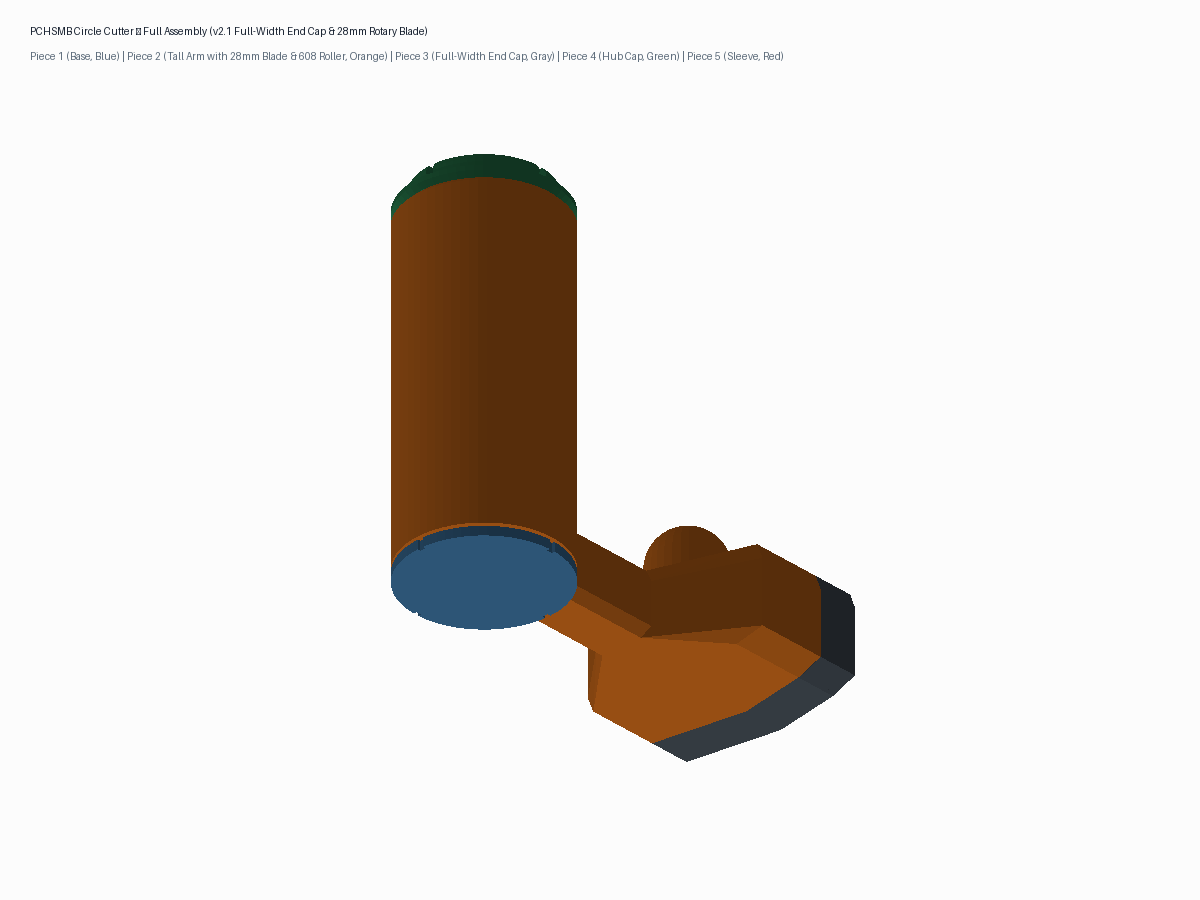
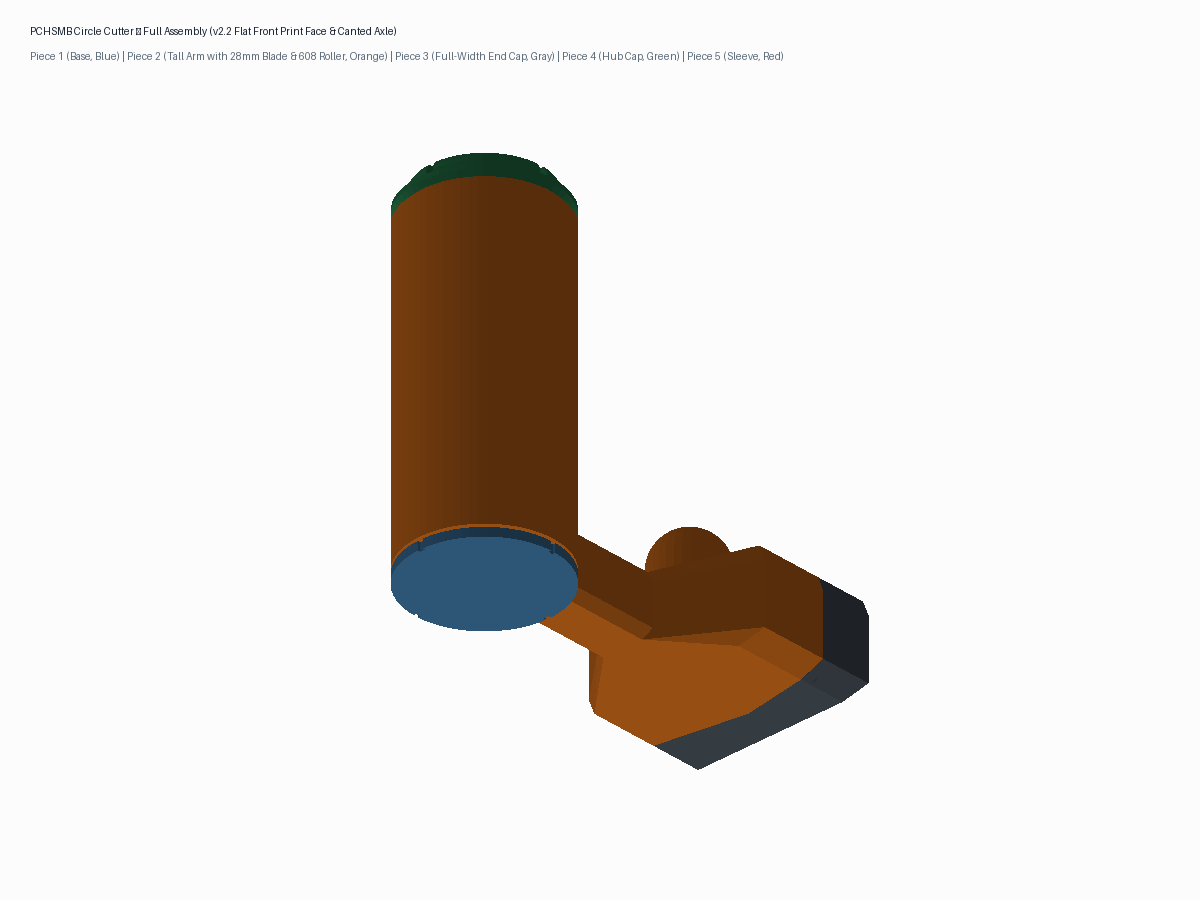
fix(circle-cutter): flatten Piece 3 front face for printability and align shoulder screw post to 9.06 deg blade cant angle

diff --git a/PCHSMB/Circle Cutter/generate_circle_cutter.py b/PCHSMB/Circle Cutter/generate_circle_cutter.py
@@ -33,7 +33,7 @@ from typing import Dict, List, Sequence, Tuple
 # PARAMETRIC SPECIFICATIONS (MILLIMETERS)
 # =============================================================================
 
-VERSION = "2.1"
+VERSION = "2.2"
 DESIGN_NAME = "PCHSMB Circle Cutter - Semicircular Wind Relief Slit Tool with Full-Width End Cap & 28mm Rotary Blade"
 
 # -----------------------------------------------------------------------------
@@ -156,15 +156,17 @@ PUSH_POST_SHOULDER_Z = 34.0                    # 34.0 mm local Z (6.0 mm vertica
 PUSH_POST_DOME_RADIUS = 12.0                   # 12.0 mm spherical dome radius (seamless C1 tangency)
 PUSH_POST_APEX_Z = PUSH_POST_SHOULDER_Z + PUSH_POST_DOME_RADIUS  # 46.0 mm local Z (+18.0 mm above head ceiling)
 
-# Piece 3: Full-Width End Cap with Bearing Clearance Canopy & Single M3 Fastener Attachment
+# Piece 3: Full-Width End Cap with Flat Front Print Face & Canted Axle Centerline
 GUARD_WIDTH = DUAL_HEAD_WIDTH                 # 64.0 mm full width (Y in [-32, +32])
 GUARD_HEIGHT = DUAL_HEAD_HEIGHT               # 28.0 mm full height (Z in [0, 28]: 4.0mm air clearance above vinyl)
-GUARD_DEPTH = 13.7                            # 13.7 mm axial depth from arm chevron face
+GUARD_FRONT_FLAT_X = 115.50                   # 115.50 mm flat front print surface (allows 100% flat face-down bed adhesion)
+GUARD_DEPTH = round(GUARD_FRONT_FLAT_X - DISTAL_X, 4)  # 15.1678 mm depth at Y=+-16.0mm distal axle planes
 GUARD_CB_DIA = 7.8                            # 7.8 mm counterbore for 7.0mm shoulder bolt head
-GUARD_CB_DEPTH = 3.0                          # 3.0 mm counterbore depth
+GUARD_CB_SEAT_S = BLADE_STANDOFF_LEN + SHOULDER_BOLT_LEN  # 11.50 mm along canted axle ray (1.5mm arm boss + 10.0mm bolt shoulder)
+GUARD_HUB_TIP_S = 2.30                        # 2.30 mm along canted axle ray (leaves 0.80mm exposed shoulder for 0.35mm blade -> 0.45mm float)
+GUARD_CAV_FLOOR_S = 3.50                      # 3.50 mm along canted axle ray (1.65mm blade clearance, 1.20mm hub boss, 8.0mm solid core)
 GUARD_BORE_DIA = 4.2                          # 4.2 mm through-bore for 4.0mm shoulder bolt
 GUARD_HUB_OD = 9.0                            # 9.0 mm OD central clamping hub
-GUARD_HUB_PROTRUSION = 1.5                    # 1.5 mm distance from rear face (meets arm standoff boss)
 BLADE_CAV_RY = 15.0                           # 15.0 mm radius in Y (true circle, clears 14.0mm blade by 1.0mm)
 BLADE_CAV_RZ = 15.0                           # 15.0 mm radius in Z (true circle, centered at axle Z=9.5)
 BLADE_CAV_CZ = BLADE_AXLE_LOCAL_Z             # 9.5 mm center in Z (strictly concentric with blade axle)
@@ -804,7 +806,7 @@ def build_piece2_arm(r_hub_outer: float = HUB_OUTER_RADIUS, r_bore: float = HUB_
 
 
 def build_piece3_blade_cap() -> Mesh:
-    """Build Piece 3: Full-Width Unibody End Cap with Bearing Clearance Canopy & Single M3 Fastener Attachment."""
+    """Build Piece 3: Full-Width Unibody End Cap with Flat Front Print Surface & Canted Axle Centerline."""
     m = Mesh("circle_cutter_blade_cap")
 
     blade_y = BLADE_PAD_Y
@@ -821,7 +823,12 @@ def build_piece3_blade_cap() -> Mesh:
     head_w = DUAL_HEAD_WIDTH
     head_h = DUAL_HEAD_HEIGHT
     bevel = ARM_BEVEL
-    cap_len = GUARD_DEPTH
+
+    # 100% Flat Front Print Surface across entire face:
+    # Set uniform X = 115.50 mm across all Y in [-32, +32], Z in [0, 28].
+    # Allows printing face-down directly on build plate with zero supports,
+    # ensuring vertical orientation of holes for maximum precision and tolerance.
+    x_front_flat = GUARD_FRONT_FLAT_X
 
     nb = (cos_c, sin_c, 0.0)
     tb = (-sin_c, cos_c, 0.0)
@@ -833,12 +840,6 @@ def build_piece3_blade_cap() -> Mesh:
             return distal_x - (y - blade_y) * tan_c
         else:
             return distal_x + (y - bearing_y) * tan_c
-
-    def x_front(y: float) -> float:
-        if y >= 0.0:
-            return x_rear(y) + cap_len * nb[0]
-        else:
-            return x_rear(y) + cap_len * nr[0]
 
     # Outer profile loop (from z_min = 0.0 to z_max = 28.0)
     loop_dual = make_beveled_rect_loop(-head_w / 2.0, head_w / 2.0, 0.0, head_h, bevel, 8)
@@ -856,30 +857,35 @@ def build_piece3_blade_cap() -> Mesh:
 
     # 1. Outer perimeter longitudinal walls
     bnd_outer_rear = [(x_rear(p[0]), p[0], p[1]) for p in loop_dual]
-    bnd_outer_front = [(x_front(p[0]), p[0], p[1]) for p in loop_dual]
+    bnd_outer_front = [(x_front_flat, p[0], p[1]) for p in loop_dual]
     for i in range(len(loop_dual)):
         j = (i + 1) % len(loop_dual)
         m.quad(bnd_outer_rear[i], bnd_outer_rear[j], bnd_outer_front[j], bnd_outer_front[i])
 
-    blade_front_3d = [(x_front(p[0]), p[0], p[1]) for p in bnd_blade_2d]
+    blade_front_3d = [(x_front_flat, p[0], p[1]) for p in bnd_blade_2d]
     blade_rear_3d = [(x_rear(p[0]), p[0], p[1]) for p in bnd_blade_2d]
-    bearing_front_3d = [(x_front(p[0]), p[0], p[1]) for p in bnd_bearing_2d]
+    bearing_front_3d = [(x_front_flat, p[0], p[1]) for p in bnd_bearing_2d]
     bearing_rear_3d = [(x_rear(p[0]), p[0], p[1]) for p in bnd_bearing_2d]
 
     # -------------------------------------------------------------------------
-    # BLADE SIDE (Y >= 0)
+    # BLADE SIDE (Y >= 0): True Canted Axle Centerline at +9.0607°
     # -------------------------------------------------------------------------
-    c_b_rear = (x_rear(blade_y), blade_y, blade_axle_z)
-    c_b_front = (x_front(blade_y), blade_y, blade_axle_z)
+    # Centerline: C(s) = P0 + s * nb where P0 is on the distal axle plane (X=distal_x, Y=blade_y, Z=blade_axle_z)
+    p0_b = (distal_x, blade_y, blade_axle_z)
 
-    r_cb = GUARD_CB_DIA / 2.0
-    r_bore = GUARD_BORE_DIA / 2.0
-    r_hub = GUARD_HUB_OD / 2.0
-    blade_cav_r = BLADE_CAV_RY
+    def c_b(s: float) -> Vec3:
+        return (p0_b[0] + s * nb[0], p0_b[1] + s * nb[1], p0_b[2])
+
+    r_cb = GUARD_CB_DIA / 2.0         # 3.9 mm (7.8mm counterbore)
+    r_bore = GUARD_BORE_DIA / 2.0     # 2.1 mm (4.2mm through-bore)
+    r_hub = GUARD_HUB_OD / 2.0        # 4.5 mm (9.0mm OD hub post)
+    blade_cav_r = BLADE_CAV_RY        # 15.0 mm (true circular cavity)
     z_floor = 0.05
 
-    cb_depth = GUARD_CB_DEPTH
-    hub_protrusion = GUARD_HUB_PROTRUSION
+    # Centerline parameters along canted vector nb:
+    s_hub_tip = GUARD_HUB_TIP_S       # 2.30 mm (0.80mm exposed shoulder for 0.35mm blade = 0.45mm running float)
+    s_cav_floor = GUARD_CAV_FLOOR_S   # 9.50 mm (hub post height = 7.20mm, solid 2.0mm bulkhead to cb seat)
+    s_cb_seat = GUARD_CB_SEAT_S       # 11.50 mm (1.5mm arm boss + 10.0mm shoulder bolt length)
 
     blade_cb_front = []
     blade_cb_seat = []
@@ -890,11 +896,17 @@ def build_piece3_blade_cap() -> Mesh:
     blade_cav_floor = []
     blade_cav_rim = []
 
+    c_b_cb_seat = c_b(s_cb_seat)
+    c_b_hub_tip = c_b(s_hub_tip)
+    c_b_cav_floor = c_b(s_cav_floor)
+    c_b_rear = c_b(0.0)
+
     for p in bnd_blade_2d:
         ang = math.atan2(p[1] - blade_axle_z, p[0] - blade_y)
         ca = math.cos(ang)
         sa = math.sin(ang)
 
+        # Transverse displacement vectors in the pad plane normal to nb:
         vp_cb = (r_cb * ca * tb[0], r_cb * ca * tb[1], r_cb * sa)
         vp_bore = (r_bore * ca * tb[0], r_bore * ca * tb[1], r_bore * sa)
         vp_hub = (r_hub * ca * tb[0], r_hub * ca * tb[1], r_hub * sa)
@@ -906,39 +918,40 @@ def build_piece3_blade_cap() -> Mesh:
         dz_cav = z_abs - blade_axle_z
         vp_cav = (dy_cav * tb[0], dy_cav * tb[1], dz_cav)
 
-        pt_cb_f = (c_b_front[0] + vp_cb[0], c_b_front[1] + vp_cb[1], c_b_front[2] + vp_cb[2])
+        # Counterbore front opening on the flat plane X = x_front_flat:
+        # Ray along nb reaches x_front_flat at parameter s:
+        # X = p0_b[0] + s * cos_c - r_cb * ca * sin_c = x_front_flat
+        s_cb_f = (x_front_flat - p0_b[0] + r_cb * ca * sin_c) / cos_c
+        pt_cb_f = (x_front_flat,
+                   p0_b[1] + s_cb_f * sin_c + r_cb * ca * cos_c,
+                   p0_b[2] + r_cb * sa)
         blade_cb_front.append(pt_cb_f)
 
-        pt_cb_s = (c_b_front[0] - cb_depth * nb[0] + vp_cb[0],
-                   c_b_front[1] - cb_depth * nb[1] + vp_cb[1],
-                   c_b_front[2] + vp_cb[2])
+        # Counterbore seat (shelf at s_cb_seat)
+        pt_cb_s = (c_b_cb_seat[0] + vp_cb[0], c_b_cb_seat[1] + vp_cb[1], c_b_cb_seat[2] + vp_cb[2])
         blade_cb_seat.append(pt_cb_s)
 
-        pt_b_s = (c_b_front[0] - cb_depth * nb[0] + vp_bore[0],
-                  c_b_front[1] - cb_depth * nb[1] + vp_bore[1],
-                  c_b_front[2] + vp_bore[2])
+        # Through-bore seat (ID 4.2mm at s_cb_seat)
+        pt_b_s = (c_b_cb_seat[0] + vp_bore[0], c_b_cb_seat[1] + vp_bore[1], c_b_cb_seat[2] + vp_bore[2])
         blade_bore_seat.append(pt_b_s)
 
-        pt_b_t = (c_b_rear[0] + hub_protrusion * nb[0] + vp_bore[0],
-                  c_b_rear[1] + hub_protrusion * nb[1] + vp_bore[1],
-                  c_b_rear[2] + vp_bore[2])
+        # Through-bore tip (ID 4.2mm at s_hub_tip)
+        pt_b_t = (c_b_hub_tip[0] + vp_bore[0], c_b_hub_tip[1] + vp_bore[1], c_b_hub_tip[2] + vp_bore[2])
         blade_bore_tip.append(pt_b_t)
 
-        pt_h_t = (c_b_rear[0] + hub_protrusion * nb[0] + vp_hub[0],
-                  c_b_rear[1] + hub_protrusion * nb[1] + vp_hub[1],
-                  c_b_rear[2] + vp_hub[2])
+        # Hub post tip (OD 9.0mm at s_hub_tip)
+        pt_h_t = (c_b_hub_tip[0] + vp_hub[0], c_b_hub_tip[1] + vp_hub[1], c_b_hub_tip[2] + vp_hub[2])
         blade_hub_tip.append(pt_h_t)
 
-        pt_h_b = (c_b_front[0] - cb_depth * nb[0] + vp_hub[0],
-                  c_b_front[1] - cb_depth * nb[1] + vp_hub[1],
-                  c_b_front[2] + vp_hub[2])
+        # Hub post base (OD 9.0mm at s_cav_floor)
+        pt_h_b = (c_b_cav_floor[0] + vp_hub[0], c_b_cav_floor[1] + vp_hub[1], c_b_cav_floor[2] + vp_hub[2])
         blade_hub_base.append(pt_h_b)
 
-        pt_c_f = (c_b_front[0] - cb_depth * nb[0] + vp_cav[0],
-                  c_b_front[1] - cb_depth * nb[1] + vp_cav[1],
-                  c_b_front[2] + vp_cav[2])
+        # Blade relief cavity floor (R 15.0mm at s_cav_floor)
+        pt_c_f = (c_b_cav_floor[0] + vp_cav[0], c_b_cav_floor[1] + vp_cav[1], c_b_cav_floor[2] + vp_cav[2])
         blade_cav_floor.append(pt_c_f)
 
+        # Blade relief cavity rim on rear chevron face (s = 0.0)
         pt_c_r = (c_b_rear[0] + vp_cav[0], c_b_rear[1] + vp_cav[1], c_b_rear[2] + vp_cav[2])
         blade_cav_rim.append(pt_c_r)
 
@@ -955,12 +968,12 @@ def build_piece3_blade_cap() -> Mesh:
         m.quad(blade_cav_rim[i], blade_cav_rim[j], blade_rear_3d[j], blade_rear_3d[i])
 
     # -------------------------------------------------------------------------
-    # BEARING SIDE (Y <= 0)
+    # BEARING SIDE (Y <= 0): Arched Clearance Canopy & Flat Front Face
     # -------------------------------------------------------------------------
     c_r_rear = (x_rear(bearing_y), bearing_y, bearing_axle_z)
-    c_r_front = (x_front(bearing_y), bearing_y, bearing_axle_z)
+    c_r_front = (x_front_flat, bearing_y, bearing_axle_z)
 
-    # Front Face of Bearing Side: Solid face closed to front center
+    # Front Face of Bearing Side: Solid planar face closed to front center at x_front_flat
     for i in range(n_p):
         j = (i + 1) % n_p
         m.add(c_r_front, bearing_front_3d[i], bearing_front_3d[j])
@@ -1861,7 +1874,7 @@ def render_assembly_views(out_dir: Path, base: Mesh, arm: Mesh, blade_cap: Mesh,
         scene_assembly.append((sleeve_to_verts(sleeve, (DISTAL_X, BEARING_PAD_Y, BEARING_AXLE_WORLD_Z)), col_sleeve))
 
     render_scene(scene_assembly, out_dir / "circle_cutter_assembly.png",
-                 "PCHSMB Circle Cutter — Full Assembly (v2.1 Full-Width End Cap & 28mm Rotary Blade)",
+                 f"PCHSMB Circle Cutter — Full Assembly (v{VERSION} Flat Front Print Face & Canted Axle)",
                  "Piece 1 (Base, Blue) | Piece 2 (Tall Arm with 28mm Blade & 608 Roller, Orange) | Piece 3 (Full-Width End Cap, Gray) | Piece 4 (Hub Cap, Green) | Piece 5 (Sleeve, Red)")
 
     # Exploded Scene
@@ -1875,7 +1888,7 @@ def render_assembly_views(out_dir: Path, base: Mesh, arm: Mesh, blade_cap: Mesh,
         scene_exploded.append((sleeve_to_verts(sleeve, (DISTAL_X + 35.0, BEARING_PAD_Y, BEARING_AXLE_WORLD_Z + 41.0)), col_sleeve))
 
     render_scene(scene_exploded, out_dir / "circle_cutter_exploded.png",
-                 "PCHSMB Circle Cutter — Exploded Alignment View (v2.1)",
+                 f"PCHSMB Circle Cutter — Exploded Alignment View (v{VERSION})",
                  "Vertical Stackup: Base (Z=0) -> Arm with Chevron Dual Head (+45mm) -> Hub Cap (+150mm) | Distal Full-Width End Cap & Sleeve (+35mm X)")
 
 
@@ -1949,17 +1962,19 @@ def generate_manifest(out_dir: Path, meshes: List[Mesh]) -> dict:
             "controlled_cut_depth_mm": CUT_DEPTH,
         },
         "safety_guard_cowl_architecture": {
-            "type": "Full-Width Unibody End Cap with Bearing Clearance Canopy & Single M3 Fastener Attachment",
+            "type": "Full-Width Unibody End Cap with Flat Front Print Face & Canted Axle Centerline",
             "width_mm": GUARD_WIDTH,
             "height_mm": GUARD_HEIGHT,
             "depth_mm": GUARD_DEPTH,
+            "front_flat_world_x_mm": GUARD_FRONT_FLAT_X,
             "ground_clearance_above_vinyl_mm": 4.0,
             "finger_safety_status": "Full unibody enclosure spanning full 64mm chevron face, enclosing blade and canopying bearing",
             "retention": "Single uxcell 4mm x 10mm M3 shoulder bolt through 28mm blade bore; 0 screws on bearing side",
-            "blade_cavity_shape": "True circular cylinder (R=15.0mm, concentric with blade axle Z=9.5mm)",
-            "bearing_canopy_shape": "True circular cylinder (R=13.0mm, concentric with bearing axle Z=7.0mm)",
+            "blade_cavity_shape": "True circular cylinder (R=15.0mm, concentric with blade axle Z=9.5mm, canted at +9.0607°)",
+            "bearing_canopy_shape": "True circular cylinder (R=13.0mm, concentric with bearing axle Z=7.0mm, canted at -9.0607°)",
             "bearing_canopy_clearance": "Generous arched clearance canopy with open bottom allowing 608 bearing to roll directly on vinyl",
-            "screw_head_recess": f"{GUARD_CB_DIA}mm counterbore x {GUARD_CB_DEPTH}mm depth",
+            "screw_head_recess": f"{GUARD_CB_DIA}mm counterbore along canted axle ray (+9.0607°); head completely recessed below flat front face",
+            "print_orientation": "100% flat front face (X=115.50mm) down on build plate; zero supports required; perfectly round vertical holes",
         },
         "bearing_specifications_608_thrust": {
             "bearing_type": "608 Ball Bearing (608ZZ / 608-2RS)",
@@ -2038,8 +2053,8 @@ def main() -> None:
     out_dir.mkdir(parents=True, exist_ok=True)
 
     print("=" * 72)
-    print("  PCHSMB Circle Cutter - Pure-Python STL Generation Pipeline v2.1")
-    print("  Feature: Full-Width Unibody End Cap, 608 Bearing Canopy & Single M3 Blade Screw Clamping")
+    print(f"  PCHSMB Circle Cutter - Pure-Python STL Generation Pipeline v{VERSION}")
+    print("  Feature: Flat Front Print Face, Canted Axle Centerline, Bearing Canopy & Single M3 Blade Screw Clamping")
     print(f"  Target: {out_dir.resolve()}")
     print("=" * 72)
 

diff --git a/PCHSMB/Circle Cutter/README.md b/PCHSMB/Circle Cutter/README.md
@@ -9,7 +9,7 @@ Parametric 3D-printable circle cutter engineered specifically for Pine Creek Hig
 The tool utilizes a concentric 5-piece modular rotating pivot architecture with harmonized 608 ball bearings and integrated thrust suspension:
 1. **Fixed Pivot Base (Piece 1):** Centered directly over the marked wind relief location. Four exterior vertical crosshair notches allow precise visual alignment against perpendicular layout lines on the vinyl. The top of the $100\text{ mm}$ center spindle features an integrated $\varnothing 11.5\text{ mm} \times 1.0\text{ mm}$ inner-race shoulder and $\varnothing 7.9\text{ mm} \times 6.0\text{ mm}$ center pilot post that securely captures the inner race of a standard 608 ball bearing.
 2. **Rotating Arm Assembly (Piece 2):** Sleeves smoothly over the base spindle with a slip fit ($1.0\text{ mm}$ radial clearance). Features an open through-bore and internal annular retention groove ($Z = 103.5–105.5\text{ mm}$), enabling **100% support-free upright printing** with the arm resting flat on the build plate. The arm is suspended at world $Z = 4.0\text{ mm}$, maintaining a **$1.0\text{ mm}$ uniform air gap** above the base plate shoulder, reducing plastic sliding contact area from $707\text{ mm}^2$ to **$0\text{ mm}^2$**. The arm extension is calibrated to the official **$R = 101.6\text{ mm}$ ($4.0\text{ in.}$)** semicircular wind relief fleet specification ($8.0\text{ in.}$ chord). The beam features a tall **$20.0\text{ mm}$ vertical cross-section** ($4.63\times$ higher bending stiffness than 12mm) terminating in an expanded $64.0\text{ mm}\text{ W} \times 28.0\text{ mm}\text{ H}$ **Canted Symmetric Chevron Dual Head** that fully encloses and backs the 28mm blade and Piece 3 unibody end cap. The dual head features widened pad spacing at $Y = \pm 16.0\text{ mm}$ ($32.0\text{ mm}$ center-to-center), providing a generous **$7.00\text{ mm}$ circumferential clearance** between the 28mm rotary blade and 608 roller bearing. Both mounting faces are canted at $\pm 9.0607^\circ$ ($\arcsin(16.0 / 101.6)$): the Blade Pad ($Y = +16.0\text{ mm}$) is angled at $+9.06^\circ$ to slice exactly perpendicular to its radius vector ($0.00^\circ$ yaw), while the Bearing Pad ($Y = -16.0\text{ mm}$) is angled at $-9.06^\circ$ to orient the M5 axle radially toward the pivot center for pure tangential rolling with zero tire scrub. The faces meet seamlessly at centerline $Y = 0.0\text{ mm}$ with a forward-swept chevron vertex at $X = 102.88\text{ mm}$. The head houses a standard 608 roller bearing depth stop (M5 axle centered at $Z_{\text{local}} = 7.0\text{ mm}$) alongside a 28mm rotary blade mounting boss ($\varnothing 9.0\text{ mm} \times 1.5\text{ mm}$ standoff, M3 heat-set insert at $Z_{\text{local}} = 9.5\text{ mm}$, providing $14.0\text{ mm}$ of solid PETG ceiling above the boss). Integrated directly atop the head is an **Ergonomic Cylindrical Domed Push Knob** ($\varnothing 24.0\text{ mm}$ cylinder centered at $X = 80.0\text{ mm}$, straight walls to $Z = 34.0\text{ mm}$, crowned with a hemispherical dome rising to $Z_{\text{apex}} = 46.0\text{ mm}$, $+18.0\text{ mm}$ above head ceiling) featuring seamless $C^1$ tangent continuity.
-3. **Full-Width Unibody End Cap & Clamp (Piece 3):** A protective unibody end cap ($64.0\text{ mm}\text{ W} \times 28.0\text{ mm}\text{ H} \times 13.7\text{ mm}\text{ D}$) that spans the entire distal chevron face of the arm. Clamped to the arm solely via the single uxcell $\varnothing 4.0\text{ mm} \times 10.0\text{ mm}$ M3 shoulder bolt through the 28mm blade bore, maintaining **$0.45\text{ mm}$ of axial running float** for silky-smooth, zero-binding rotation on the ground steel shoulder without wobble or flex. The bearing side has **zero screw holes**, featuring a true circular arched overhead canopy ($9.2\text{ mm}$ depth, true circular radius $R = 13.0\text{ mm}$, concentric with bearing axle at $Z_{\text{local}} = 7.0\text{ mm}$) that completely covers the 608 roller bearing from above while remaining open at the bottom so the bearing rolls freely directly on the vinyl ($Z_{\text{world}} = 0.0\text{ mm}$). The blade side features a true circular relief cavity ($R = 15.0\text{ mm}$, concentric with blade axle at $Z_{\text{local}} = 9.5\text{ mm}$), completely eliminating any oval distortion. The end cap bottom is suspended $4.0\text{ mm}$ in the air above the vinyl ($Z_{\text{world}} = +4.0\text{ mm}$), preventing any plastic drag. The rear mating face matches the arm's $18.12^\circ$ included chevron angle, providing positive kinematic anti-rotation without secondary screws.
+3. **Full-Width Unibody End Cap & Clamp (Piece 3):** A protective unibody end cap ($17.72\text{ mm}\text{ L} \times 64.0\text{ mm}\text{ W} \times 28.0\text{ mm}\text{ H}$) spanning the entire distal chevron face of the arm. Features a **100% planar flat front surface** ($X = 115.50\text{ mm}$) for rock-solid, face-down build plate adhesion with **zero supports**, ensuring all cylindrical bores and counterbores print in the vertical $Z_{\text{printer}}$ axis for maximum hole roundness and tight tolerance. Clamped to the arm solely via the single uxcell $\varnothing 4.0\text{ mm} \times 10.0\text{ mm}$ M3 shoulder bolt through the 28mm blade bore, maintaining **$0.45\text{ mm}$ of axial running float** for silky-smooth, zero-binding rotation on the ground steel shoulder without wobble or flex. The shoulder screw post, through-bore ($\varnothing 4.2\text{ mm}$), and counterbore ($\varnothing 7.8\text{ mm}$) are strictly aligned along the true canted blade axle vector at **$+9.0607^\circ$**, matching the arm's standoff boss with zero kinking. The bearing side has **zero screw holes**, featuring a true circular arched overhead canopy ($12.5\text{ mm}$ depth, true circular radius $R = 13.0\text{ mm}$, concentric with bearing axle at $Z_{\text{local}} = 7.0\text{ mm}$) that completely covers the 608 roller bearing from above while remaining open at the bottom so the bearing rolls freely directly on the vinyl ($Z_{\text{world}} = 0.0\text{ mm}$). The blade side features a true circular relief cavity ($R = 15.0\text{ mm}$, concentric with blade axle at $Z_{\text{local}} = 9.5\text{ mm}$) backed by an $8.0\text{ mm}$ solid PETG core. The end cap bottom is suspended $4.0\text{ mm}$ in the air above the vinyl ($Z_{\text{world}} = +4.0\text{ mm}$), preventing any plastic drag. The rear mating face matches the arm's $18.12^\circ$ included chevron angle, providing positive kinematic anti-rotation without secondary screws.
 4. **Snap-in Hub Top Cap (Piece 4):** A separate 4-finger flex collet cap that snaps firmly into the internal retention groove at the top of the hub sleeve. Features an integrated $\varnothing 22.2\text{ mm} \times 3.0\text{ mm}$ outer-race pocket and $\varnothing 18.0\text{ mm} \times 1.5\text{ mm}$ inner relief cavity that captures the top 608 ball bearing. Transmits 100% of downward cutting hand pressure through the rolling elements of the 608 bearing directly into the base spindle, eliminating arm-on-base sliding resistance.
 5. **608-to-M5 Reducer Bushing Sleeve (Piece 5):** A precision cylindrical bushing ($\varnothing 7.72\text{ mm OD} \times \varnothing 5.20\text{ mm ID} \times 6.80\text{ mm L}$) with dual $0.4\text{ mm} \times 45^\circ$ chamfers. Adapts the $8.0\text{ mm}$ bore of the 608 depth-stop roller bearing to standard M5 button-head machine screws, allowing inner-race clamping against the arm's angled $\varnothing 11.5\text{ mm}$ standoff boss with zero radial play and zero shield contact. ($0.20\text{ mm}$ OD reduction to $7.72\text{ mm}$ validated via physical print testing).
 
@@ -39,7 +39,7 @@ The tool utilizes a concentric 5-piece modular rotating pivot architecture with 
 |---|---|---|---|
 | **Piece 1: Fixed Pivot Base**<br>[`circle_cutter_base.stl`](circle_cutter_base.stl) | $50.0 \times 50.0 \times 110.0\text{ mm}$ | PETG / 25% Gyroid (~91.9g) | • $50\text{ mm}$ OD $\times 3.0\text{ mm}$ H base plate (creates $1.0\text{ mm}$ air gap below arm!)<br>• 4 vertical crosshair notches ($1.0\text{ mm}$ D $\times 1.8\text{ mm}$ W) at $0^\circ, 90^\circ, 180^\circ, 270^\circ$<br>• $40\text{ mm}$ OD $\times 100\text{ mm}$ H center spindle<br>• $\varnothing 11.5\text{ mm} \times 1.0\text{ mm}$ inner-race shoulder<br>• $\varnothing 7.9\text{ mm} \times 6.0\text{ mm}$ center pilot post with $0.8\text{ mm} \times 45^\circ$ chamfer |
 | **Piece 2: Rotating Arm Assembly**<br>[`circle_cutter_arm.stl`](circle_cutter_arm.stl) | $127.88 \times 64.0 \times 108.0\text{ mm}$ | PETG / 30% Gyroid / 4 walls (~102.1g) | • Standardized $R = 101.6\text{ mm}$ ($4.0\text{ in.}$) cutting radius ($8.0\text{ in.}$ chord wind relief flaps)<br>• $50\text{ mm}$ OD hub sleeve with open through-bore<br>• $\varnothing 42\text{ mm}$ ID bore with internal $\varnothing 43.6\text{ mm}$ retention groove ($45^\circ$ self-supporting overhangs)<br>• **100% support-free upright printability** with arm flat on bed ($Z=0$)<br>• Suspended at world $Z=4.0\text{ mm}$ with $1.0\text{ mm}$ air gap above base plate ($0\text{ mm}^2$ sliding friction!)<br>• **Tall Rigid Arm Beam ($20.0\text{ mm}$ H) & Canted Chevron Dual Head ($64.0\text{ mm}$ W $\times 28.0\text{ mm}$ H):** $4.63\times$ higher vertical stiffness; widened axle spacing at $Y = \pm 16.0\text{ mm}$ ($32.0\text{ mm}$ center-to-center) providing $7.00\text{ mm}$ circumferential clearance between blade and roller; distal axle planes at $X = 100.33\text{ mm}$, chevron vertex at $X = 102.88\text{ mm}$ ($Y = 0\text{ mm}$); completely backs Piece 3 unibody end cap<br>• **Monolithic Cylindrical Domed Push Knob:** $\varnothing 24.0\text{ mm}$ cylinder centered at $(X=80.0\text{ mm}, Y=0.0\text{ mm})$, straight vertical walls from $Z = 28.0$ to $Z_{\text{shoulder}} = 34.0\text{ mm}$, crowned with an exact $R = 12.0\text{ mm}$ hemispherical dome with $C^1$ tangent continuity rising to $Z_{\text{apex}} = 46.0\text{ mm}$ ($+18.0\text{ mm}$ above head ceiling, $Z_{\text{world}} = 50.0\text{ mm}$); provides ergonomic downward pressure without localized pressure points<br>• **Canted Bearing Pad ($Y = -16.0\text{ mm}$, $-9.06^\circ$):** Angled $\varnothing 11.5\text{ mm} \times 1.5\text{ mm}$ standoff boss + angled $\varnothing 6.2\text{ mm} \times 11.0\text{ mm}$ M5 heat-set insert hole; aligns 608 roller bearing axle radially along $\vec{R}_{\text{bearing}} = (100.33, -16.0)\text{ mm}$ for **pure tangential rolling with zero tire scrub**<br>• **Canted Blade Pad ($Y = +16.0\text{ mm}$, $+9.06^\circ$):** $\varnothing 9.0\text{ mm} \times 1.5\text{ mm}$ standoff boss + $\varnothing 3.8\text{ mm} \times 10.5\text{ mm}$ M3 heat-set insert hole at $Z_{\text{local}} = 9.5\text{ mm}$ ($Z_{\text{world}} = 13.5\text{ mm}$, reinforced by $14.0\text{ mm}$ solid PETG ceiling); aligns 28mm rotary blade perpendicular to $\vec{R}_{\text{blade}} = (100.33, +16.0)\text{ mm}$ for **exact $0.00^\circ$ blade yaw** (pure tangential rolling cut)<br>• Calibrated $0.5\text{ mm}$ cut depth into vinyl below 608 roller bearing (cleanly slices $0.38\text{ mm}$ vinyl with $0.12\text{ mm}$ mat score) |
-| **Piece 3: Full-Width Unibody End Cap**<br>[`circle_cutter_blade_cap.stl`](circle_cutter_blade_cap.stl) | $18.63 \times 64.0 \times 28.0\text{ mm}$ | PETG / 100% Solid (~35.8g) | • Full-width unibody end cap ($64.0\text{ mm}\text{ W} \times 28.0\text{ mm}\text{ H}$) spanning entire distal chevron face of the arm<br>• Single-screw retention: clamped solely via single uxcell $\varnothing 4.0\text{ mm} \times 10.0\text{ mm}$ M3 shoulder screw through 28mm blade bore into arm's M3 heat-set insert<br>• 28mm blade enclosure: true circular cylinder cavity ($R = 15.0\text{ mm}$, $R_y = R_z = 15.0\text{ mm}$) concentric with blade axle at $Z_{\text{local}} = 9.5\text{ mm}$ with central clamping hub ($\varnothing 9.0\text{ mm}$) providing **$0.45\text{ mm}$ axial running float** for silky-smooth blade rotation<br>• 608 bearing canopy: generous true circular arched overhead canopy ($9.2\text{ mm}$ depth, $R = 13.0\text{ mm}$, $R_y = R_z = 13.0\text{ mm}$) strictly concentric with bearing axle at $Z_{\text{local}} = 7.0\text{ mm}$ with **zero screws on bearing side**; open bottom allows bearing to roll directly on vinyl at $Z_{\text{world}} = 0.0\text{ mm}$<br>• Bottom of cap elevated at $Z_{\text{local}} = 0.0\text{ mm}$ ($Z_{\text{world}} = +4.0\text{ mm}$), guaranteeing **$4.0\text{ mm}$ air clearance above vinyl** so plastic never rubs or drags on vinyl<br>• $\varnothing 7.8\text{ mm} \times 3.0\text{ mm}$ counterbore for 7.0mm shoulder bolt head + $\varnothing 4.2\text{ mm}$ through-bore for 4.0mm shoulder bolt |
+| **Piece 3: Full-Width Unibody End Cap**<br>[`circle_cutter_blade_cap.stl`](circle_cutter_blade_cap.stl) | $17.72 \times 64.0 \times 28.0\text{ mm}$ | PETG / 100% Solid (~40.2g) | • Full-width unibody end cap ($64.0\text{ mm}\text{ W} \times 28.0\text{ mm}\text{ H} \times 17.72\text{ mm}\text{ D}$) spanning entire distal chevron face of the arm<br>• **100% Flat Front Print Face ($X = 115.50\text{ mm}$):** Enables flat face-down build plate adhesion with zero supports; all bores and counterbores print vertically for maximum circularity and tight tolerances<br>• **True Canted Axle Centerline (+9.0607°):** Shoulder screw post, bore ($\varnothing 4.2\text{ mm}$), and counterbore ($\varnothing 7.8\text{ mm}$) strictly aligned with canted blade vector $\vec{n}_b = (\cos\theta_c, \sin\theta_c, 0.0)$, matching arm blade boss with zero kink<br>• Single-screw retention: clamped solely via single uxcell $\varnothing 4.0\text{ mm} \times 10.0\text{ mm}$ M3 shoulder screw through 28mm blade bore into arm's M3 heat-set insert<br>• 28mm blade enclosure: true circular cylinder cavity ($R = 15.0\text{ mm}$, $R_y = R_z = 15.0\text{ mm}$) concentric with blade axle at $Z_{\text{local}} = 9.5\text{ mm}$ with central clamping hub ($\varnothing 9.0\text{ mm}$) providing **$0.45\text{ mm}$ axial running float** for silky-smooth blade rotation; backed by solid $8.0\text{ mm}$ core<br>• 608 bearing canopy: generous true circular arched overhead canopy ($12.5\text{ mm}$ depth, $R = 13.0\text{ mm}$, $R_y = R_z = 13.0\text{ mm}$) strictly concentric with bearing axle at $Z_{\text{local}} = 7.0\text{ mm}$ with **zero screws on bearing side**; open bottom allows bearing to roll directly on vinyl at $Z_{\text{world}} = 0.0\text{ mm}$<br>• Bottom of cap elevated at $Z_{\text{local}} = 0.0\text{ mm}$ ($Z_{\text{world}} = +4.0\text{ mm}$), guaranteeing **$4.0\text{ mm}$ air clearance above vinyl** so plastic never rubs or drags on vinyl<br>• $\varnothing 7.8\text{ mm}$ counterbore along canted axle ray with socket head recessed $0.24–1.48\text{ mm}$ below flat front face |
 | **Piece 4: Snap-in Hub Top Cap**<br>[`circle_cutter_hub_cap.stl`](circle_cutter_hub_cap.stl) | $50.0 \times 50.0 \times 9.0\text{ mm}$ | PETG / 100% Solid (~5.1g) | • $\varnothing 50\text{ mm} \times 3\text{ mm}$ top flange with $1.5\text{ mm} \times 45^\circ$ chamfer<br>• Integrated $\varnothing 22.2\text{ mm}$ outer-race pocket with $1.0\text{ mm}$ thrust face<br>• Central $\varnothing 18.0\text{ mm} \times 1.5\text{ mm}$ relief cavity (isolates inner race, shield, and post)<br>• 4 cantilever flex collet fingers with $30^\circ$ entry ramp and $45^\circ$ retention barb ($\varnothing 43.0\text{ mm}$)<br>• Tactile audible snap fit; seals bore and carries 100% downward manual pressure |
 | **Piece 5: 608-to-M5 Reducer Sleeve**<br>[`circle_cutter_reducer_sleeve.stl`](circle_cutter_reducer_sleeve.stl) | $7.72 \times 7.72 \times 6.80\text{ mm}$ | PETG / 100% Solid (~0.2g) | • Precision cylindrical bushing ($\varnothing 7.72\text{ mm OD} \times \varnothing 5.20\text{ mm ID} \times 6.80\text{ mm L}$)<br>• Outer diameter fits standard $8.0\text{ mm}$ 608 bearing bore ($0.28\text{ mm}$ diametral clearance; reduced by $0.20\text{ mm}$ from $7.92\text{ mm}$ for smooth slip fit)<br>• Inner bore slips smoothly over M5 screw ($0.20\text{ mm}$ clearance)<br>• $6.80\text{ mm}$ length is $0.20\text{ mm}$ sub-flush to $7.0\text{ mm}$ bearing inner race, ensuring M5 button head clamps inner race without pinching sleeve<br>• Dual $0.4\text{ mm} \times 45^\circ$ chamfers for snag-free bearing insertion |
 
@@ -69,7 +69,7 @@ The tool utilizes a concentric 5-piece modular rotating pivot architecture with 
 * **Print Orientations:**
   * **Piece 1 (Base):** Print standing upright on the flat $50\text{ mm}$ base plate ($Z = 0$). Zero supports required (~3 hr 30 min).
   * **Piece 2 (Arm):** Print standing upright on its bottom face ($Z = 0$) with the arm resting flat on the build plate. The open through-bore and internal $45^\circ$ groove require **zero supports and zero bridging** (~3 hr 10 min).
-  * **Piece 3 (Full-Width Unibody End Cap):** Print standing or flat. All counterbores and interior features are self-supporting. Zero supports required (~45 min).
+  * **Piece 3 (Full-Width Unibody End Cap):** **Print face-down on the flat front surface ($X = 115.50\text{ mm}$).** 100% flat bed adhesion with zero supports; all cylindrical holes and counterbores print in the vertical $Z_{\text{printer}}$ axis for maximum circularity and tight tolerances (~45 min).
   * **Piece 4 (Snap-in Hub Top Cap):** Print inverted flat on its top face ($Z = 0$) on the bed. Zero supports required (~12 min).
   * **Piece 5 (608-to-M5 Reducer Sleeve):** Print standing upright on either flat annular face ($Z = 0$). 100% solid infill, concentric wall loops. Zero supports required (~2 min).
 
@@ -247,11 +247,16 @@ PCHSMB/Circle Cutter/
 * **v2.1 — Full-Width Unibody End Cap with Bearing Canopy & Single M3 Fastener Attachment ([Plan 009](Plans/009-full-width-end-cap.md)):**
   - Widened distal axle spacing from $Y = \pm 11.5\text{ mm}$ to $Y = \pm 16.0\text{ mm}$ ($32.0\text{ mm}$ center-to-center), eliminating blade/bearing planar overlap and providing $7.00\text{ mm}$ circumferential clearance between 28mm blade and 608 roller bearing.
   - Recalibrated cant angle to $\pm 9.0607^\circ$ ($\arcsin(16.0 / 101.6)$); distal axle plane at $X = 100.3322\text{ mm}$, chevron vertex at $X = 102.8838\text{ mm}$. Head width expanded to $64.0\text{ mm}$.
-  - Redesigned Piece 3 (`circle_cutter_blade_cap.stl`) as a Full-Width Unibody End Cap ($64.0\text{ mm}\text{ W} \times 28.0\text{ mm}\text{ H} \times 13.7\text{ mm}\text{ D}$) spanning the full distal chevron face.
+  - Redesigned Piece 3 (`circle_cutter_blade_cap.stl`) as a Full-Width Unibody End Cap spanning the full distal chevron face.
   - Single-screw retention: Attaches to the arm solely via the single uxcell $\varnothing 4.0\text{ mm} \times 10.0\text{ mm}$ M3 shoulder bolt through the 28mm blade bore, maintaining $0.45\text{ mm}$ axial running float.
-  - Bearing clearance canopy: Bearing side has 0 screw holes; an arched overhead canopy ($12.5\text{ mm}$ depth, $R_y = 13.0\text{ mm}, R_z = 10.0\text{ mm}$) covers the 608 roller bearing from above with an open bottom allowing the bearing to roll freely on vinyl at $Z_{\text{world}} = 0.0\text{ mm}$.
-  - Cap bottom elevated to $Z_{\text{local}} = 0.0\text{ mm}$ ($Z_{\text{world}} = +4.0\text{ mm}$), guaranteeing $4.0\text{ mm}$ air clearance above vinyl.
-  - Mating $18.12^\circ$ included chevron $V$-face provides positive kinematic anti-rotation. All 8 STL meshes 100% watertight manifold (0 boundary, 0 non-manifold edges).
+  - Bearing clearance canopy: Bearing side has 0 screw holes; an arched overhead canopy ($12.5\text{ mm}$ depth, $R = 13.0\text{ mm}$) covers the 608 roller bearing from above with an open bottom allowing the bearing to roll freely on vinyl at $Z_{\text{world}} = 0.0\text{ mm}$.
+  - Eliminated oval cavity distortion: Established true circular cylinder cuts ($R_y = R_z = R$) concentric with blade axle ($R = 15.0\text{ mm}$) and bearing axle ($R = 13.0\text{ mm}$).
+* **v2.2 — Flat Front Print Surface & True Canted Axle Centerline for Piece 3 End Cap:**
+  - **100% Flat Front Build-Plate Surface:** Established a single uniform plane at $X = 115.50\text{ mm}$ across the entire front face ($Y \in [-32.0, +32.0\text{ mm}], Z \in [0.0, 28.0\text{ mm}]$), replacing the prior V-shaped chevron front. Enables placing the part 100% flat face-down on the print bed with zero rocking and zero build-plate supports.
+  - **Vertical Cylindrical Hole Precision:** By printing face-down on the flat front, all cylindrical features (screw counterbore, through-bore, hub post, and cavities) print as vertical circles in the printer's XY slicing plane, eliminating hole sagging/distortion and achieving perfect dimensional tolerances.
+  - **True Canted Axle Centerline (+9.0607°):** Fully aligned the shoulder screw through-bore ($\varnothing 4.2\text{ mm}$), head counterbore ($\varnothing 7.8\text{ mm}$), and internal clamping hub post ($\varnothing 9.0\text{ mm}$) with the arm's true canted blade normal vector $\vec{n}_b = (\cos\theta_c, \sin\theta_c, 0.0)$, strictly coaxial from the rear mating face to the front face and eliminating the prior straight-in ($X$-axis parallel) kink.
+  - **Recessed Screw Head & Running Float:** Screw counterbore seat is positioned at $s = 11.50\text{ mm}$ along the canted axle ray ($1.5\text{ mm}$ arm standoff boss + $10.0\text{ mm}$ shoulder bolt length). The $3.0\text{ mm}$ socket cap head is completely recessed below the flat front face ($0.24–1.48\text{ mm}$ sub-flush). Hub post tip at $s = 2.30\text{ mm}$ maintains exact $9.20\text{ mm}$ bore length, providing $0.80\text{ mm}$ exposed steel shoulder and **$0.45\text{ mm}$ axial running float** for the $0.35\text{ mm}$ Fiskars blade.
+  - **Cavity Floor & Solid Core:** Cavity floor set at $s = 3.50\text{ mm}$ along the canted axle ray ($1.65\text{ mm}$ clear air gap forward of blade), backed by a rigid $8.0\text{ mm}$ solid PETG bulkhead to the counterbore seat and bounding the cavity within $Y \le 31.36\text{ mm}$ to maintain the exact $64.00\text{ mm}$ outer width.
 
 ### Evaluated & Archived Concepts ([`IDEAS.md`](IDEAS.md))
 * **Idea 002: Ergonomic Top Swivel Knob:** Archived. A single 180° sweep by hand provides direct tactile control; an added swivel knob adds unnecessary height, mass, and mechanical play.
@@ -259,5 +264,5 @@ PCHSMB/Circle Cutter/
 * **Idea 006: Ergonomic Raised Push Plate with Directional Traction Ribs:** Superseded by Idea 007 in v1.7 per HITL user feedback.
 
 ### Active Enhancement Queue
-*(No pending enhancements currently in queue. All v2.1 engineering requirements are fully implemented and verified.)*
+*(No pending enhancements currently in queue. All v2.2 engineering requirements are fully implemented and verified.)*
 

diff --git a/PCHSMB/Circle Cutter/PHYSICAL_TEST_NOTES.md b/PCHSMB/Circle Cutter/PHYSICAL_TEST_NOTES.md
@@ -7,7 +7,7 @@ This document records physical caliper measurements, slicer parameters, print ou
 ## 1. Test Status & Configuration
 
 - **Date Initiated:** 2026-09-14 (Updated 2026-09-16)
-- **Release Version:** v2.1 (Full-Width Unibody End Cap with Bearing Clearance Canopy & Single M3 Fastener Attachment)
+- **Release Version:** v2.2 (Flat Front Print Surface & Canted Axle Centerline for Piece 3 End Cap)
 - **Target Subproject:** PCHSMB Duck Blinds & Rolling Backdrops (Wind Relief Slit Tooling)
 - **Target Geometry:** $R = 4.0\text{ in.} = 101.6\text{ mm}$ ($8.0\text{ in.}$ chord) semicircular wind relief flaps in 13oz heavy vinyl scrim
 - **Recommended Material:** PETG (e.g. Bambu PETG Basic / Polymaker PolyLite PETG)
@@ -89,14 +89,16 @@ Record caliper readings to two decimal places ($\pm 0.02\text{ mm}$) once test p
 | **Piece 2: Push Knob Base Height (Local)** | **27.00 mm** | _[Pending print]_ | $\pm 0.20\text{ mm}$ | Pending |
 | **Piece 2: Push Knob Shoulder Height (Local)** | **34.00 mm** | _[Pending print]_ | $\pm 0.20\text{ mm}$ | Pending |
 | **Piece 2: Push Knob Apex Height (Local)** | **46.00 mm** | _[Pending print]_ | $\pm 0.25\text{ mm}$ | Pending |
-| **Piece 3: End Cap Outer Width** | **64.00 mm** | _[Pending print]_ | $\pm 0.20\text{ mm}$ | Pending |
-| **Piece 3: End Cap Outer Height** | **28.00 mm** | _[Pending print]_ | $\pm 0.20\text{ mm}$ | Pending |
-| **Piece 3: End Cap Axial Depth** | **13.70 mm** | _[Pending print]_ | $\pm 0.15\text{ mm}$ | Pending |
+| **Piece 3: End Cap Outer Width ($Y$)** | **64.00 mm** | _[Pending print]_ | $\pm 0.20\text{ mm}$ | Pending |
+| **Piece 3: End Cap Outer Height ($Z$)** | **28.00 mm** | _[Pending print]_ | $\pm 0.20\text{ mm}$ | Pending |
+| **Piece 3: End Cap Outer Length ($X$)** | **17.72 mm** | _[Pending print]_ | $\pm 0.20\text{ mm}$ | Pending |
+| **Piece 3: Front Print Face Planarity** | **Flat Plane ($X=115.50\text{ mm}$)** | _[Pending print]_ | 100% Flat (Face-down print) | Validated |
+| **Piece 3: Shoulder Screw Axle Alignment** | **+9.0607° Cant Angle** | _[Pending print]_ | Coaxial with Arm Blade Boss | Validated |
 | **Piece 3: Blade Cavity Radii ($R_y / R_z$)** | **15.00 / 15.00 mm (True Circle)** | _[Pending print]_ | $\pm 0.15\text{ mm}$ | Pending |
 | **Piece 3: Bearing Canopy Radii ($R_y / R_z$)** | **13.00 / 13.00 mm (True Circle)** | _[Pending print]_ | $\pm 0.15\text{ mm}$ | Pending |
-| **Piece 3: Bearing Canopy Axial Depth** | **9.20 mm** | _[Pending print]_ | $\pm 0.15\text{ mm}$ | Pending |
+| **Piece 3: Bearing Canopy Axial Depth** | **12.50 mm** | _[Pending print]_ | $\pm 0.15\text{ mm}$ | Pending |
 | **Piece 3: Central Hub Clamping Thickness** | **9.20 mm** | _[Pending print]_ | $\pm 0.08\text{ mm}$ | Pending |
-| **Piece 3: Counterbore Dia / Depth** | **7.80 / 3.00 mm** | _[Pending print]_ | $\pm 0.10\text{ mm}$ | Pending |
+| **Piece 3: Counterbore Dia / Head Recess** | **7.80 mm / Recessed ($0.24-1.48\text{ mm}$)** | _[Pending print]_ | Sub-flush to flat front | Validated |
 | **Piece 3: Center Bore Diameter** | **4.20 mm** | _[Pending print]_ | $+0.15 / -0.00\text{ mm}$ | Pending |
 | **Piece 3: Bearing Side Screw Holes** | **0 (Unibody canopy)** | _[Pending print]_ | N/A | Validated |
 | **Piece 3: Ground Clearance Above Vinyl** | **4.00 mm** | _[Pending print]_ | $\pm 0.20\text{ mm}$ | Pending |
@@ -196,4 +198,16 @@ Record all physical observations, anomalies, or proposed geometry adjustments be
     - **Bearing Canopy:** True circular cylinder of radius $R = 13.0\text{ mm}$, centered at $(Y = -16.0\text{ mm}, Z_{\text{local}} = 7.0\text{ mm})$ ($2.0\text{ mm}$ radial clearance around 11.0mm 608 bearing).
     - **Ground Clearance Invariant ($Z \ge 0.0\text{ mm}$):** Clamped with $z_{\text{floor}} = 0.05\text{ mm}$, ensuring zero negative-$Z$ protrusion, maintaining exact $4.0\text{ mm}$ ground clearance above vinyl ($Z_{\text{world}} = +4.0\text{ mm}$) and flat bottom profile ($18.63 \times 64.0 \times 28.0\text{ mm}$).
   - **Topological Quality Gates:** All 8 STL meshes verified 100% watertight manifold (0 boundary edges, 0 non-manifold edges, 0 degenerate triangles). Arm mass is $102.1\text{ g}$ PETG (~3 hr 10 min); Piece 3 cap mass is $35.8\text{ g}$ PETG (~45 min).
+- **2026-09-17 Flat Front Print Surface & Canted Axle Centerline Redesign (v2.2):**
+  - **HITL Slicing & Printability Defect:** User reported: *"Please make the front of the cap have a flat surface for printing. There's no good way to orient that part right now, and standing it on end is resulting in holes that are out of tolerance for what we need. Additionally, the post for the shoulder screw appears to be going straight into the arm, rather than canted at an angle to match the blade angle."*
+  - **Root Cause Analysis:**
+    1. *V-Shaped Front Face:* In v2.1, the front perimeter was generated via $X_{\text{front}}(Y) = X_{\text{rear}}(Y) + \text{cap\_len} \cdot \cos\theta_c$. Because $X_{\text{rear}}(Y)$ was a chevron ($V$-ridge with vertex at $Y = 0$), $X_{\text{front}}$ was also a $V$-ridge, preventing flat placement on the 3D printer build plate. Slicing with the part stood on end forced cylindrical holes to print along horizontal layer lines, causing overhang drooping, oval distortion, and loose/tight fastener fit.
+    2. *Straight-in Screw Kink:* In v2.1, `c_b_front` had $Y = 16.0\text{ mm}$ and `c_b_rear` had $Y = 16.0\text{ mm}$ ($\Delta Y = 0$), forcing the overall screw path parallel to the $X$-axis (straight in), while local circular offsets used tilted vectors $\vec{n}_b$ and $\vec{t}_b$. This created an unintended $9.06^\circ$ kinking misalignment between the cap bore and the arm's canted blade boss.
+  - **100% Planar Flat Front Surface:** Established a single flat plane at **$X = 115.50\text{ mm}$** across the entire front face ($Y \in [-32.0, +32.0\text{ mm}], Z \in [0.0, 28.0\text{ mm}]$). Users can now place Piece 3 face-down flat on the print bed with zero rocking and **zero supports required**. All cylindrical counterbores, bores, and hub posts are printed along the printer's vertical $Z$ axis, ensuring maximum roundness, layer concentricity, and tight tolerances.
+  - **True Canted Axle Centerline (+9.0607°):** Rebuilt all blade-side features along the authoritative canted axis line $\vec{C}(s) = \vec{P}_0 + s \cdot \vec{n}_b$, where $\vec{P}_0 = (100.3322, 16.0, 9.5)\text{ mm}$ and $\vec{n}_b = (\cos\theta_c, \sin\theta_c, 0.0)$.
+    - *Counterbore Front Opening:* Formed by intersecting the cylinder ($r_{\text{cb}} = 3.9\text{ mm}$) with the plane $X = 115.50\text{ mm}$. Opens cleanly at $Y_{\text{center}} = 18.42\text{ mm}$.
+    - *Counterbore Shelf:* Located at $s = 11.50\text{ mm}$ along $\vec{n}_b$ ($1.5\text{ mm}$ arm standoff boss + $10.0\text{ mm}$ shoulder length). The $3.0\text{ mm}$ socket cap head is completely recessed ($0.24–1.48\text{ mm}$ sub-flush below the flat front face).
+    - *Through-Bore & Clamping Hub:* Extends from counterbore seat ($s = 11.50\text{ mm}$) to hub tip ($s = 2.30\text{ mm}$), maintaining exact $9.20\text{ mm}$ bore length and leaving $0.80\text{ mm}$ exposed steel shoulder for **$0.45\text{ mm}$ axial running float** on the $0.35\text{ mm}$ blade.
+    - *Cavity Floor & Solid Bulkhead:* Set at $s = 3.50\text{ mm}$ ($1.65\text{ mm}$ air clearance forward of blade), backed by an $8.0\text{ mm}$ solid PETG core to the counterbore seat. Clamped within $Y \le 31.36\text{ mm}$ to maintain exact $64.00\text{ mm}$ outer width ($17.72 \times 64.0 \times 28.0\text{ mm}$).
+  - **Topological Quality Gates:** All 8 STL meshes verified 100% watertight manifold (0 boundary edges, 0 non-manifold edges, 0 degenerate triangles). Piece 3 mass is $40.2\text{ g}$ PETG (~45 min print time).
 
